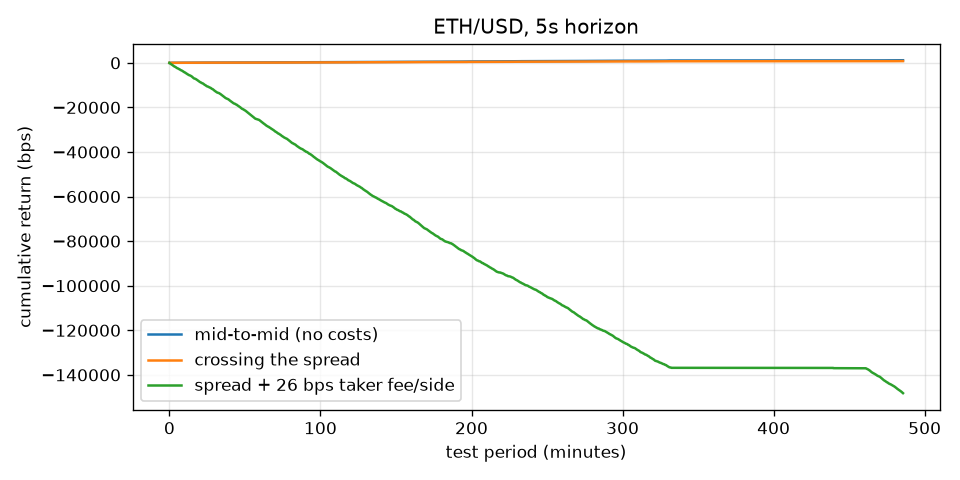
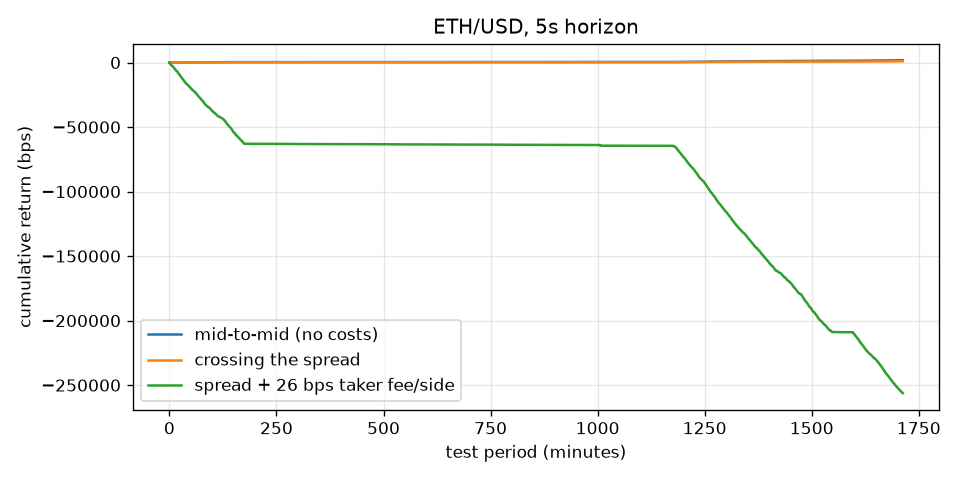
Report final 105h results across four assets and lead-lag hierarchy

diff --git a/README.md b/README.md
@@ -46,39 +46,46 @@ deltas, truncation errors, and float drift (prices are handled as `Decimal`).
 
 ## Results
 
-Numbers below are from a ~34-hour, multi-session recording (~100k one-second
-bars each for BTC and ETH); everything regenerates as the recorder accumulates
-more data. SOL and XRP were added later and are still building history.
+Numbers below are from a 105-hour recording (190k one-second bars each for BTC
+and ETH; 86k each for SOL and XRP, which were added later). Everything
+regenerates as the recorder accumulates more data — the tables below reproduced
+to within ~0.01 AUC across three runs on 34h, 79h, and 105h of data.
 
 **Direction prediction** (5s horizon, embargoed walk-forward, logistic):
 
 | symbol | AUC | book features only | imb1 alone | last return alone |
 |---|---|---|---|---|
-| BTC/USD | 0.90 | 0.90 | 0.89 | 0.55 |
-| ETH/USD | 0.59 | 0.59 | 0.58 | 0.53 |
+| BTC/USD | 0.91 | 0.91 | 0.90 | 0.55 |
+| SOL/USD | 0.64 | 0.64 | 0.64 | 0.52 |
+| ETH/USD | 0.59 | 0.60 | 0.58 | 0.53 |
+| XRP/USD | 0.53 | 0.54 | 0.54 | 0.51 |
 
 Two things to read here. First, the signal is **order-book imbalance**, not
-momentum: `imb1` alone reproduces nearly the full AUC while the last return
-alone is barely above 0.5. Second, BTC scores far higher than ETH because of
-**tick size** — BTC/USD moves in $0.10 ticks on a ~$64k price, so the mid only
-changes when a best level clears, and best-level imbalance mechanically
-telegraphs which side is about to clear. ETH's finer relative tick makes the
-relationship noisier and the AUC closer to the values reported in the
-microstructure literature.
+momentum: across all four assets `imb1` alone reproduces nearly the full AUC
+while the last return alone sits at ~0.5. Second, the AUC ordering tracks
+**tick size**. BTC/USD moves in $0.10 ticks on a ~$65k price — an extremely
+coarse grid — so its mid only changes when a best level clears, and best-level
+imbalance mechanically telegraphs which side is about to go. The finer-grained
+alts land at 0.53–0.64, in line with the microstructure literature. BTC is the
+outlier because of its price grid, not because it is more predictable in any
+useful sense.
 
-**But is it tradeable?** The three-way backtest (threshold 0.6, ~3–4k trades):
+**But is it tradeable?** The three-way backtest (5s, threshold 0.6):
 
-| scenario | BTC avg/trade | ETH avg/trade |
-|---|---|---|
-| mid-to-mid (no cost) | +0.30 bps | +0.41 bps |
-| crossing the spread | +0.27 bps | +0.27 bps |
-| + 26 bps taker fee/side | −51.7 bps | −51.7 bps |
+| scenario | BTC | ETH | SOL | XRP |
+|---|---|---|---|---|
+| mid-to-mid (no cost) | +0.26 | +0.36 | +0.25 | +0.30 |
+| crossing the spread | +0.24 | +0.20 | −1.40 | −0.17 |
+| + 26 bps taker fee/side | −51.8 | −51.8 | −53.4 | −52.2 |
+
+*(bps per trade, 1k–7.7k trades per symbol)*
 
 The high AUC and the tiny per-trade edge are consistent, and reconciling them
-is the whole point: imbalance predicts *direction* well, but the predicted
-move is a fraction of a basis point (often a single tick, and most 5s windows
-don't move at all). A retail taker pays ~52 bps round trip to capture a third
-of a basis point.
+is the whole point: imbalance predicts *direction* well, but the predicted move
+is a fraction of a basis point (often a single tick, and most 5s windows don't
+move at all). A retail taker pays ~52 bps round trip to capture a third of a
+basis point. Note the middle row: on the wider-spread alts the edge is already
+gone before fees are applied at all.
 **The signal is real and nearly mechanical; the profit is not.** Short-horizon
 edge of this kind is only harvestable by market makers who *earn* the spread
 instead of paying it — which is exactly why latency and queue position matter
@@ -86,21 +93,38 @@ in real markets.
 
 ## Cross-asset lead-lag
 
-`leadlag.py` asks whether BTC and ETH inform each other. Their 1-second returns
-have a contemporaneous correlation of ~0.38, and the cross-correlation is
-asymmetric: ETH's return tracks BTC's *next* second more than the reverse
-(−1s: +0.15, −2s: +0.10, −3s: +0.06, versus +0.07 at +1s). So over this sample
-**ETH leads BTC by a second or two** — the opposite of the usual "BTC leads
-everything" assumption.
+`leadlag.py` asks whether the four assets inform each other. Two layers.
 
-That relationship carries no predictive power, though: adding the leader's
-return, order flow, and imbalance to the follower's direction model moves AUC
-by ~0.00. Two honest reasons — BTC's own AUC is already saturated by the
-tick-size effect, so there is no headroom to add, and ETH can't be helped by a
-feature (BTC) that lags it. A real lead-lag that carries no independent edge,
-and at ~0.15 correlation it would not survive costs anyway. (At one-second
-resolution, apparent lead-lag can partly reflect which venue's feed updates
-first rather than true information flow — a caveat worth stating.)
+**They are strongly synchronized.** Contemporaneous 1-second return
+correlations run 0.70–0.83 (ETH–SOL tightest at 0.83), and *every* pair's
+cross-correlation peaks at lag 0 — one dominant market factor.
+
+**Underneath that is a faint but perfectly consistent tilt.** Comparing
+correlation at positive vs. negative lags gives the same leader in all six
+pairs, and the ordering is transitive:
+
+| pair | ρ (lag 0) | leader | lead score |
+|---|---|---|---|
+| BTC–SOL | 0.76 | SOL | 0.034 |
+| BTC–ETH | 0.73 | ETH | 0.029 |
+| BTC–XRP | 0.70 | XRP | 0.024 |
+| ETH–SOL | 0.83 | SOL | 0.014 |
+| ETH–XRP | 0.77 | XRP | 0.006 |
+| SOL–XRP | 0.75 | SOL | 0.004 |
+
+which resolves to **SOL → XRP → ETH → BTC**. BTC is the follower in all three
+of its pairs; SOL leads all three of its. Six independent pair tests agreeing
+(and reproducing across separate runs) says the tilt is real.
+
+It is also weak and almost certainly **mechanical rather than informational**.
+The scores are 0.4–3.4% asymmetries on top of a lag-0 peak, and leadership
+runs inversely to tick coarseness: BTC's discrete mid only updates when a
+level clears, so it necessarily trails assets whose mids move continuously.
+Consistent with that, cross-asset features buy nothing — adding SOL's return,
+order flow, and imbalance to BTC's direction model moves AUC by −0.000.
+A real lead-lag ordering that carries no independent edge. (At one-second
+resolution, apparent lead-lag can also reflect which feed updates first rather
+than true information flow — a caveat worth stating.)
 
 ## Run it
 
@@ -122,8 +146,8 @@ suite validates the engine against genuine exchange checksums.
 
 - Maker-side simulation with queue-position modeling (earn the spread
   instead of paying it) — requires L3 or fill data to be honest.
-- Extend the cross-asset study to SOL and XRP (now recording) for a full
-  correlation matrix and lead-lag hierarchy.
+- Isolate the tick-size effect directly: re-run the labels on moves of at
+  least N ticks, and check whether BTC's AUC collapses toward the alts'.
 - Deeper features: multi-level OFI and trade-size distributions.
 - A C++ book engine for line-rate throughput.
 